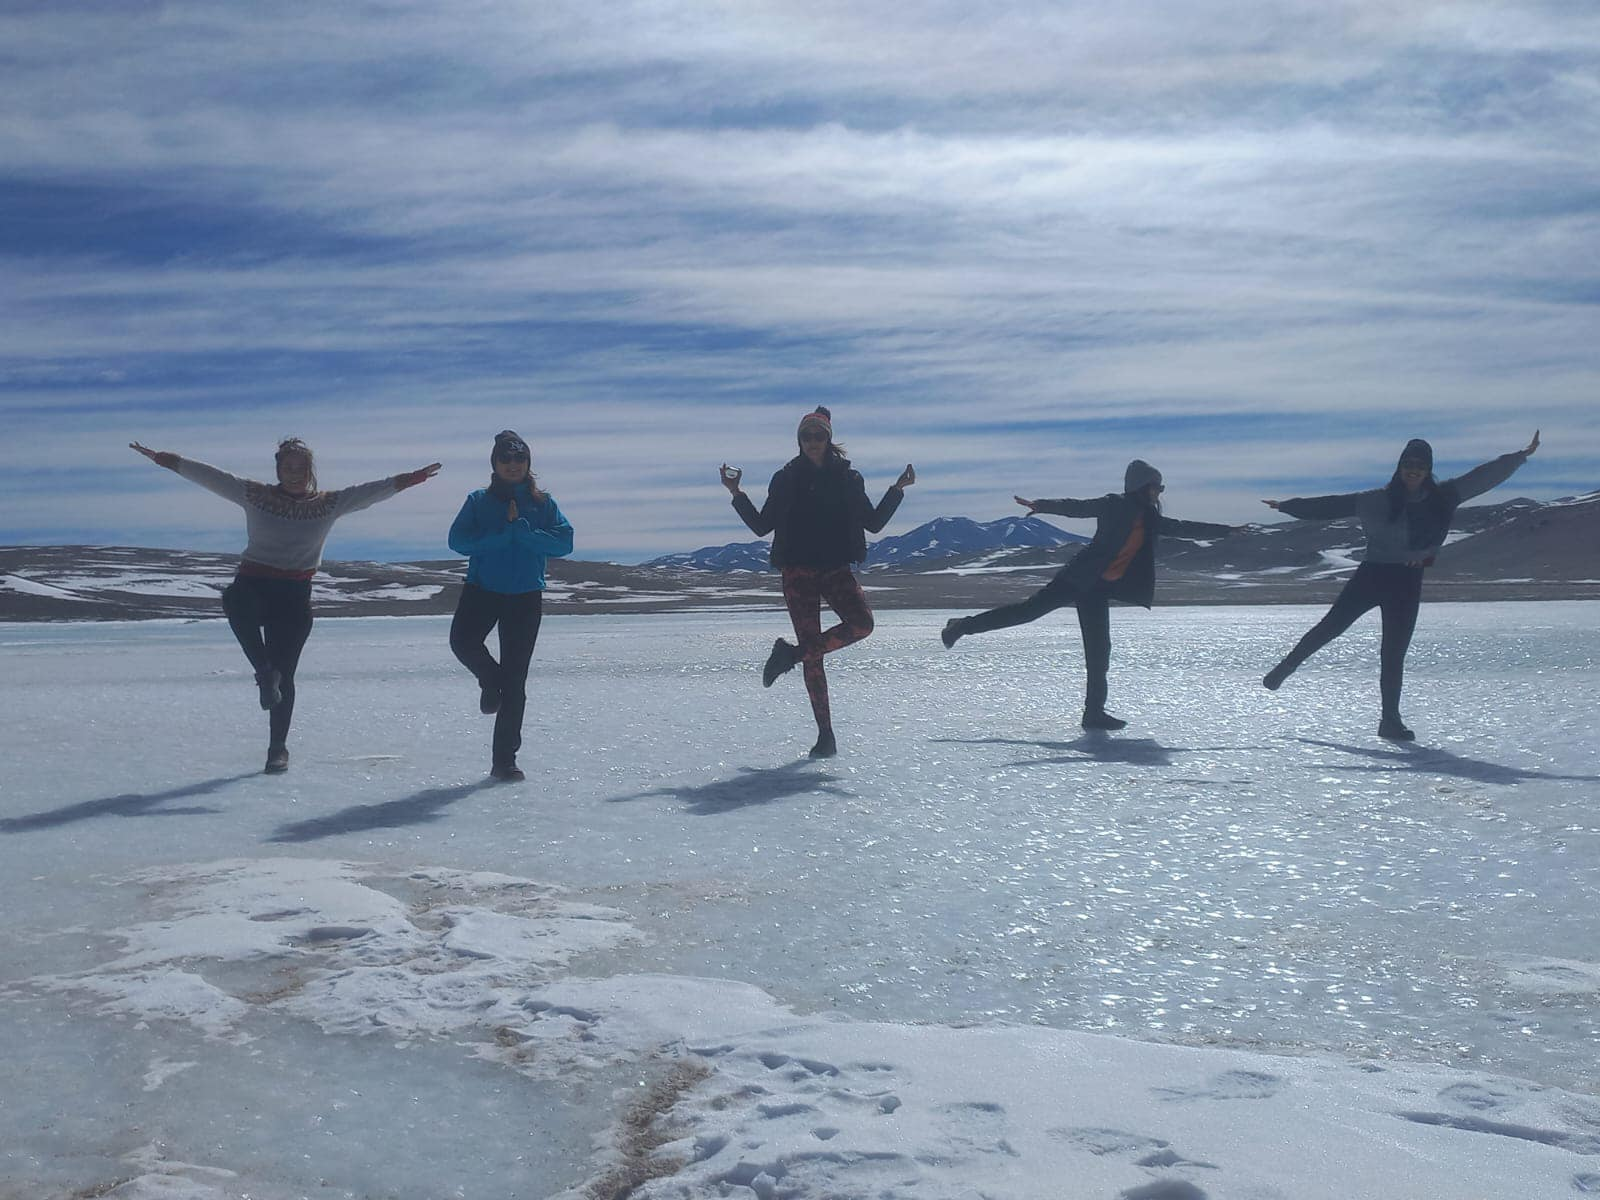
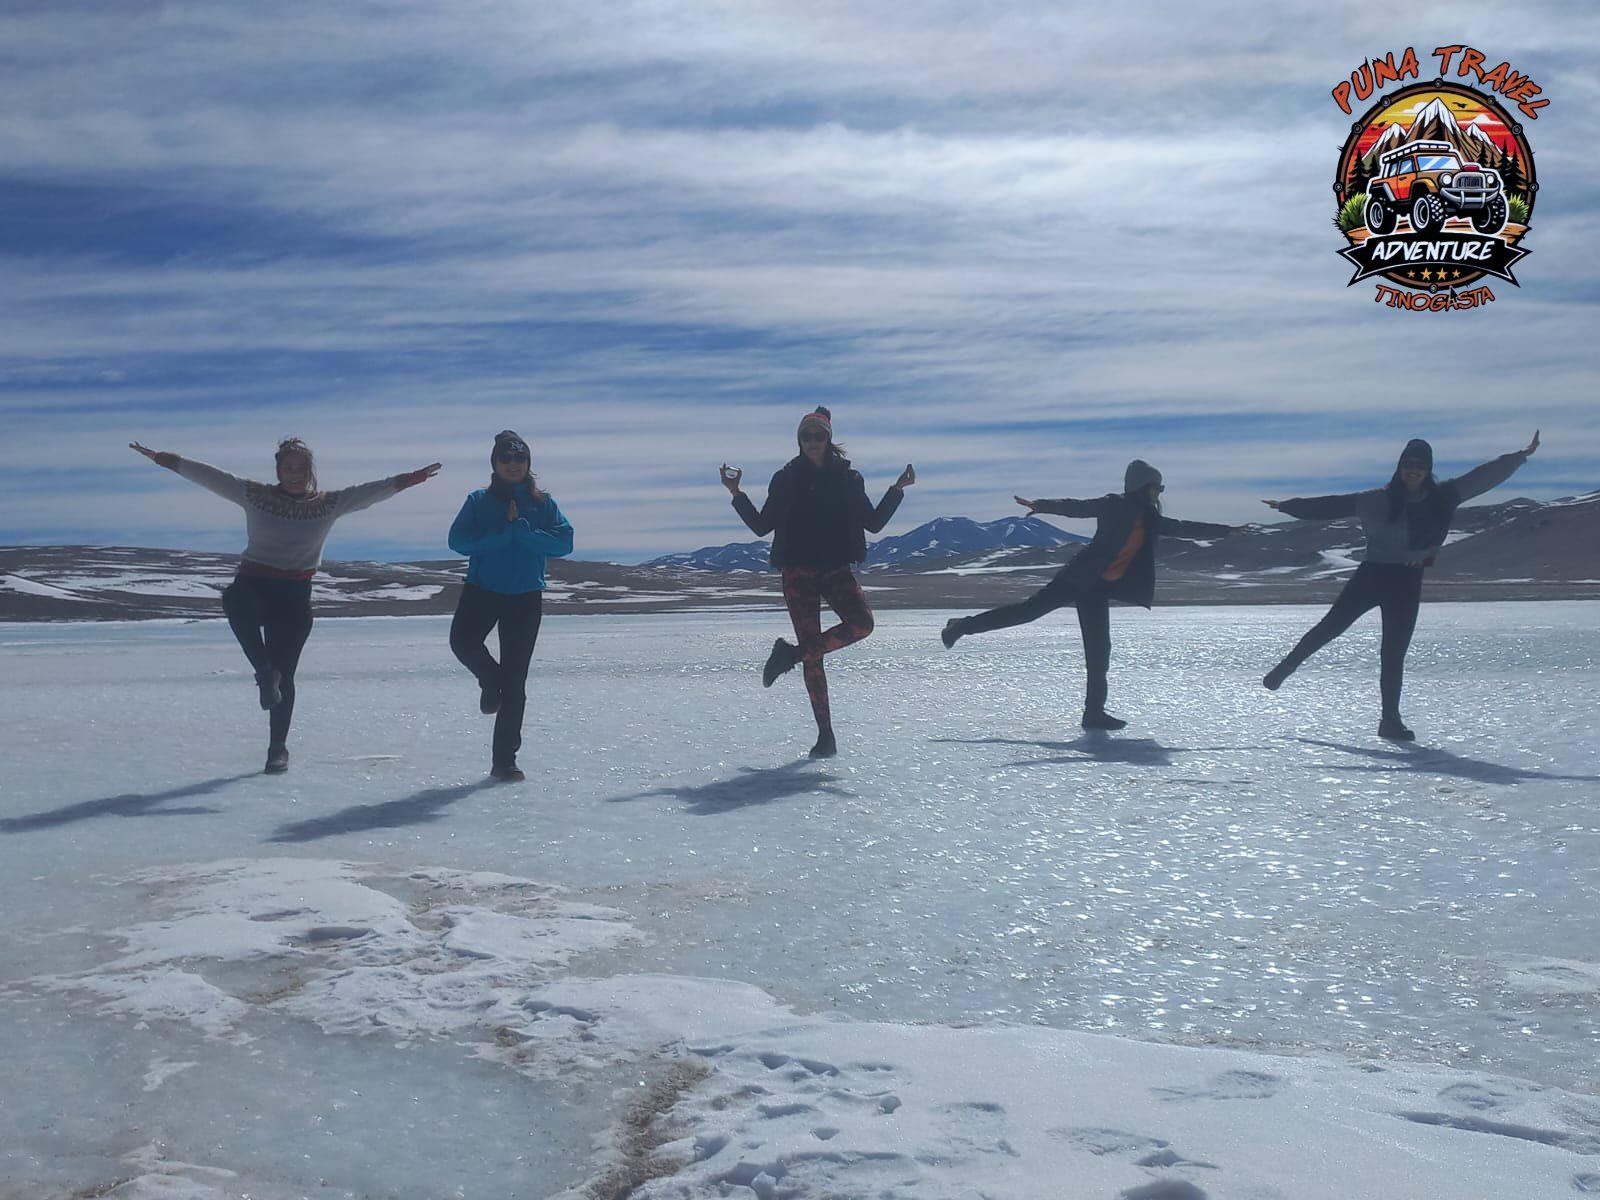
24/11/24
15:00

Changed region(s): [[0.8125, 0.0308, 0.9688, 0.2775]]

diff --git a/index.html b/index.html
@@ -148,9 +148,11 @@
                           <h1>Monte Pissis<br>***</h1>
                           <p>Descubre la grandeza del Monte Pissis, <br>donde la naturaleza y 
                             la aventura se encuentran.</p>
-                          <div class="white-button button">
+                          <!-- <div class="white-button button">
                               <a href="#featured">Mas aqui...</a>
-                          </div>
+                          </div> -->
+                          <p><br></p>
+                          <img src="img/logo1-removebg-preview.png" alt="" width="20%">
                         </div>
                         </div>
                     </div>
@@ -166,9 +168,11 @@
                           <p>Descubre la magia de las Dunas, 
 							<br>un océano de arena te espera.</p>
                           
-                          <div class="white-button button">
+                          <!-- <div class="white-button button">
                               <a href="#featured">Mas aqui...</a>
-                          </div>
+                          </div> -->
+                          <p><br></p>
+                          <img src="img/logo1-removebg-preview.png" alt="" width="20%">
                         </div>
                         </div>
                     </div>
@@ -185,9 +189,11 @@
                           <p>Descubre la majestuosidad del Cañón del Indio,
                              <br>donde la naturaleza esculpe su arte.</p>
                           
-                          <div class="white-button button">
+                          <!-- <div class="white-button button">
                               <a href="#featured">Mas aqui...</a>
-                          </div>
+                          </div> -->
+                          <p><br></p>
+                          <img src="img/logo1-removebg-preview.png" alt="" width="20%">
                         </div>
                         </div>
                     </div>
@@ -203,9 +209,11 @@
                           <p>Una aventura única en un paisaje de ensueño. 
 							<br> ¡Explora con nosotros!</p>
                           
-                          <div class="white-button button">
+                          <!-- <div class="white-button button">
                               <a href="#featured">Mas aqui...</a>
-                          </div>
+                          </div> -->
+                          <p><br></p>
+                          <img src="img/logo1-removebg-preview.png" alt="" width="20%">
                         </div>
                         </div>
                     </div>

diff --git a/css/templatemo-style.css b/css/templatemo-style.css
@@ -85,8 +85,9 @@ p {
   font-size: 13px;
   font-weight: 600;
   color: #f6fa12;
+  
   text-transform: capitalize;
-  background-color: #141414;
+  background-color:transparent;
   display: inline-block;
   height: 44px;
   line-height: 44px;
@@ -391,7 +392,7 @@ header {
 .Modern-Slider .info p {
   
     font-size: 20px;
-    color: #0c0c0c; /* Color del texto */
+    color: #f5f3f3; /* Color del texto */
     font-weight: bold;
     text-shadow: 
     2px 2px 12px rgb(32, 32, 31), -6px -6px 12px rgb(240, 68, 25) /* Borde negro alrededor del texto */
